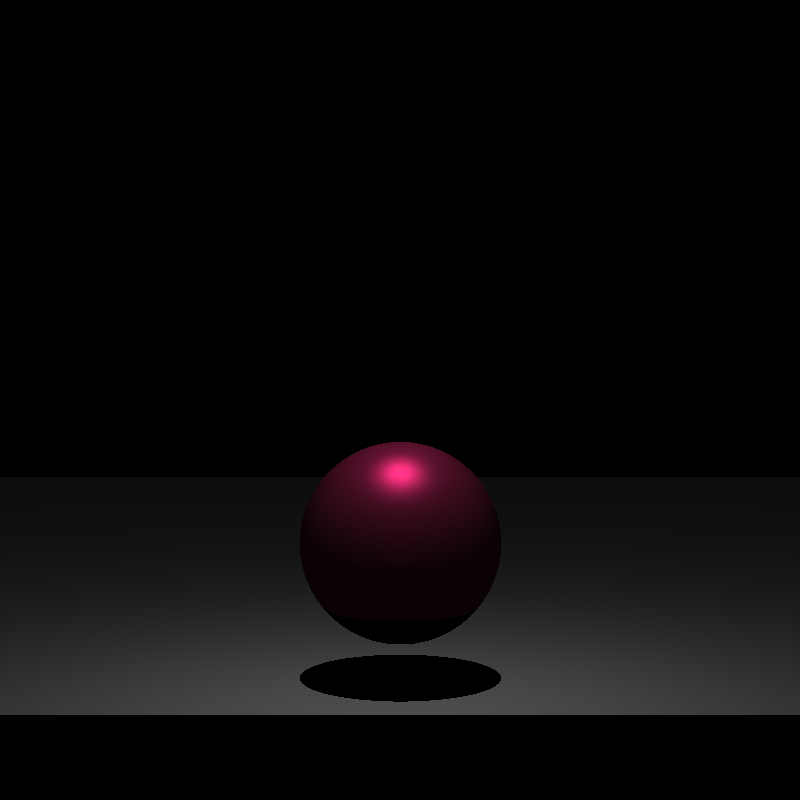
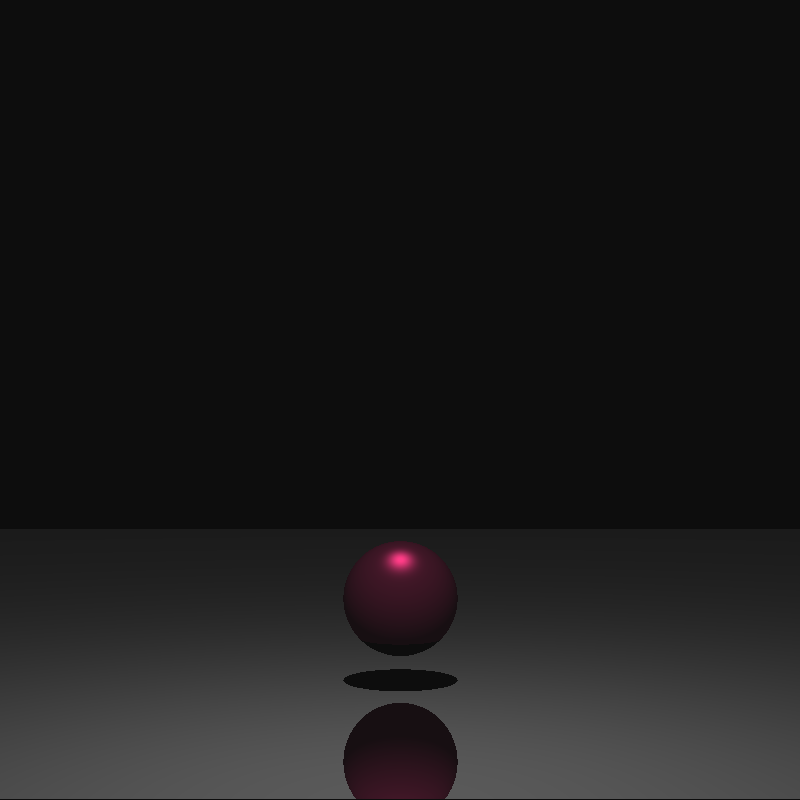
refletion 5/30/22

Changed region(s): [[0.0, 0.5312, 1.0, 1.0]]

diff --git a/Raytracerv0.8/src/edu/up/isgc/raytracer/Raytracer.java b/Raytracerv0.8/src/edu/up/isgc/raytracer/Raytracer.java
@@ -25,6 +25,7 @@ public class Raytracer {
         System.out.println(new Date());
 
         Material material1 = new Material(45, false, false);
+        Material material2 = new Material(45,true, false);
 
         Scene scene02 = new Scene();
         scene02.setCamera(new Camera(new Vector3D(0, .5, -8), 160, 160, 800, 800, 8.2f, 50f));
@@ -35,7 +36,7 @@ public class Raytracer {
                 new Triangle[]{
                         new Triangle(new Vector3D(-600,-2,0), new Vector3D(600, -2, 0), new Vector3D(600, -2, 600)),
                         new Triangle(new Vector3D(-600,-2,0), new Vector3D(600, -2, 600), new Vector3D(-600, -2, -600)),},
-                Color.WHITE, material1));
+                Color.WHITE, material2));
         //pared de fondo
         scene02.addObject(new Model3D(new Vector3D(0, 0, 0),
                 new Triangle[]{
@@ -85,17 +86,17 @@ public class Raytracer {
         //scene01.addObject(OBJReader.GetModel3D("Cube.obj", new Vector3D(-1.5f, -.5f, 1f), Color.WHITE));
 
         Scene scene03 = new Scene();
-        scene03.setCamera(new Camera(new Vector3D(0, .2f, -8), 160, 160, 800, 800, 8.2f, 50f));
+        scene03.setCamera(new Camera(new Vector3D(0, 0.5f, -8), 160, 160, 800, 800, 8.2f, 50f));
         //lights
-        scene03.addLight(new PointLight(new Vector3D(0f, 2f, 0f), Color.WHITE, 1f));
+        scene03.addLight(new PointLight(new Vector3D(0f, 4f, 0f), Color.WHITE, 1.5f));
         //piso
         scene03.addObject(new Model3D(new Vector3D(0, 0, 0),
                 new Triangle[]{
                         new Triangle(new Vector3D(-600,-2,0), new Vector3D(600, -2, 0), new Vector3D(600, -2, 600)),
                         new Triangle(new Vector3D(-600,-2,0), new Vector3D(600, -2, 600), new Vector3D(-600, -2, -600)),},
-                Color.WHITE, material1));
+                Color.WHITE, material2));
         //objects
-        scene03.addObject(new Sphere(new Vector3D(0f, -.8f, 1.5f), 0.9f, new Color(193,38,97), material1));
+        scene03.addObject(new Sphere(new Vector3D(0f, -1f, 5f), 0.7f, new Color(193,38,97), material1));
 
 
         BufferedImage image = raytrace(scene03);
@@ -147,7 +148,18 @@ public class Raytracer {
 
                             if(closestIntersection.getObject().getMaterial().isReflection()){
                                 //calculate reflection
+                                Vector3D interscNormal = closestIntersection.getNormal();
+                                Vector3D cameraInters = Vector3D.substract(closestIntersection.getPosition(), scene.getCamera().getPosition());
+                                Vector3D reflect= reflect(interscNormal,cameraInters);
+
+                                Intersection reflectedIntersection = raycast(new Ray(closestIntersection.getPosition(), reflect),objects, closestIntersection.getObject(), null);
+
+                                if(reflectedIntersection != null){
+                                    closestIntersection = reflectedIntersection;
+                                    objColor = closestIntersection.getObject().getColor();
+                                }
                             }
+
                             if(closestIntersection.getObject().getMaterial().isReflactive()){
                                 //caculate reflactive
                             }
@@ -164,7 +176,7 @@ public class Raytracer {
                             Vector3D cameraPos = Vector3D.normalize(scene.getCamera().getPosition());
                             Vector3D lightPos = Vector3D.normalize(light.getPosition());
                             Vector3D halfAngle = Vector3D.normalize(Vector3D.scalarMultiplication((Vector3D.add(cameraPos, lightPos)), 1/Vector3D.magnitude(Vector3D.add(cameraPos,lightPos))));
-                            double shininess = 45;
+                            double shininess = closestIntersection.getObject().getMaterial().getShinnines();
                             specular = (Math.pow(Vector3D.dotProduct(closestIntersection.getNormal(), halfAngle),shininess));
 
                             double ambient = 0.05;
@@ -178,16 +190,13 @@ public class Raytracer {
                         }
                         /*else{
                             shadow = true;
+                            pixelColor = Color.BLACK;
                         }*/
-
-
-
-
                     }
                 }
 
-                /*Color ambientColor = new Color(0.05f, 0.05f, 0.05f);
-                pixelColor = addColor(pixelColor, ambientColor);*/
+                Color ambientColor = new Color(0.05f, 0.05f, 0.05f);
+                pixelColor = addColor(pixelColor, ambientColor);
 
                 /*if(shadow){
                     pixelColor = Color.BLUE;
@@ -197,6 +206,15 @@ public class Raytracer {
         }
 
         return image;
+    }
+
+    public static Vector3D reflect(Vector3D interscNormal, Vector3D interscCamera){
+        Vector3D reflect;
+        double nDotc= Vector3D.dotProduct(interscNormal,interscCamera);
+        Vector3D i2 = Vector3D.scalarMultiplication(interscNormal,-2);
+        Vector3D iDotnDotL = Vector3D.scalarMultiplication(i2,nDotc);
+        reflect = Vector3D.add(iDotnDotL, interscCamera);
+        return reflect;
     }
 
     public static float clamp(float value, float min, float max) {
